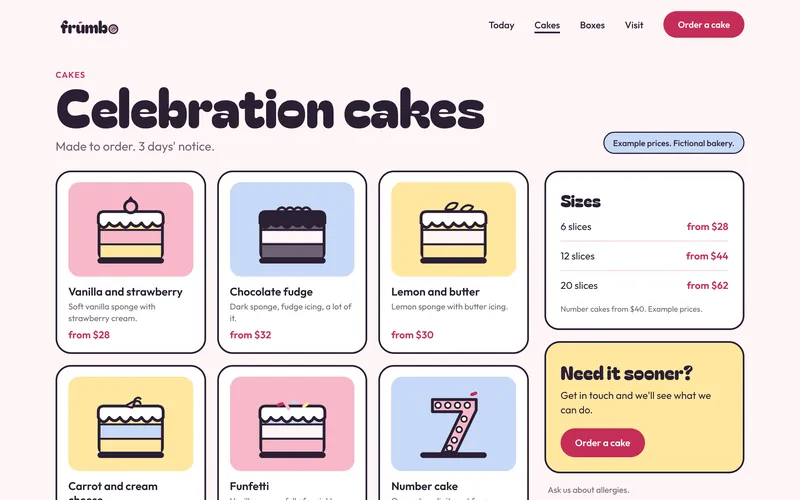
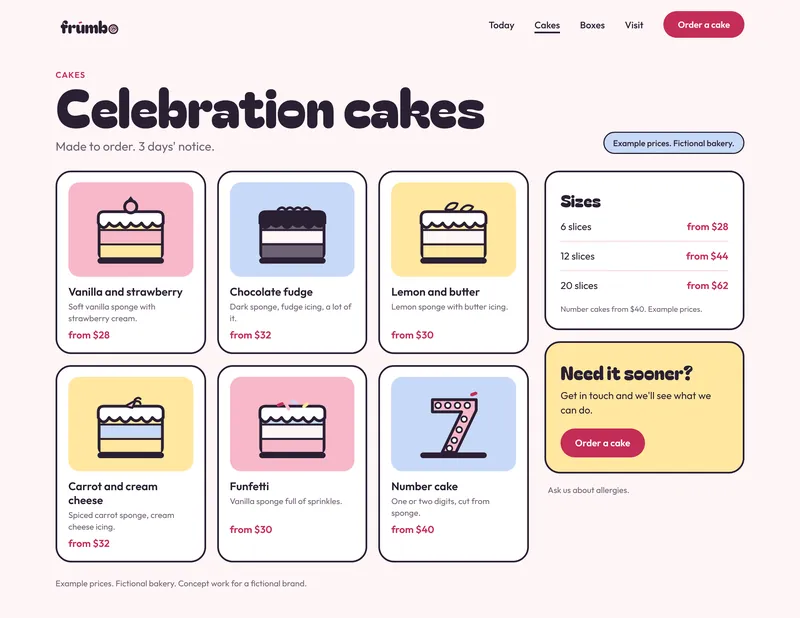
fix(library): Frumbo and Ilvane review fixes
- Frumbo: dark wordmark on pink (logo board alternate 2, box lid, awning);
  the cake box wordmark now sits inside the front face; no stray thumb on the
  phone mock-up; the A-board reads "Out of the oven at" on one line.
- Taller crops for Frumbo's Cakes page (1600x1236) and Ilvane's Quay Room page
  (1600x1400), so both cake rows, the small views and the notes show.
- Ilvane door hanger: the second hanger is no longer cropped, and the text
  matches the sand and linen sides.
- Wording: beige, not sand, for the line and the monogram; alt text updated.

Claude-Session: https://claude.ai/code/session_01WkeDyf4QASFNckaGJ3eusk

diff --git a/src/content/library.js b/src/content/library.js
@@ -142,7 +142,7 @@ export const library = [
         "frumbo",
         "desktop-cakes",
         1600,
-        1000,
+        1236,
         "Frumbo's Celebration cakes page on a desktop: made to order with 3 days' notice, six drawn cakes from vanilla and strawberry at $28 to a number cake from $40, a sizes card with 6, 12 and 20 slices, and a butter-yellow card: Need it sooner? Get in touch. Example prices. Fictional bakery.",
       ),
     ],
@@ -152,7 +152,7 @@ export const library = [
         "logo-board",
         1600,
         1200,
-        "The Frumbo logo board: \"frumbo\" in round dark letters with the o drawn as a pink bun with an icing swirl and a sprinkle over the u; the bun alone on a butter-yellow rounded square; the wordmark in icing white on strawberry pink; the app icon at three sizes; the seven colours and the two typefaces.",
+        "The Frumbo logo board: \"frumbo\" in round dark letters with the o drawn as a pink bun with an icing swirl and a sprinkle over the u; the bun alone on a butter-yellow rounded square; the wordmark in dark ink on strawberry pink; the app icon at three sizes; the seven colours and the two typefaces.",
         "The logo, its two alternates, the app icon, palette and type.",
       ),
       pic(
@@ -160,7 +160,7 @@ export const library = [
         "packaging",
         1600,
         1200,
-        "An illustration of Frumbo's packaging on a counter: a box of six with a strawberry lid, a window showing six buns and striped sides, sealed with a round bun sticker; a tall butter-yellow cake box with a blue handle, frumbo across two sides and a Flavour, Size, For label; and a small paper bun bag reading Still warm? Eat it now.",
+        "An illustration of Frumbo's packaging on a counter: a box of six with a strawberry lid printed with the dark wordmark, a window showing six buns and striped sides, sealed with a round bun sticker; a tall butter-yellow cake box with a blue handle, the frumbo wordmark on the front, the bun mark on the side and a Flavour, Size, For label; and a small paper bun bag reading Still warm? Eat it now.",
         "Box of six, cake box and bun bag. An illustration, drawn in code.",
       ),
       pic(
@@ -184,7 +184,7 @@ export const library = [
         "mockup-shop",
         1600,
         1200,
-        "An illustration of the Frumbo shop front: a strawberry and white striped awning with the wordmark, a window of buns, cakes and boxes, a blue door at 3 Quillow Lane, and a dark A-board reading Out of the oven at 11:00.",
+        "An illustration of the Frumbo shop front: a strawberry and white striped awning with the dark wordmark, a window of buns, cakes and boxes, a blue door at 3 Quillow Lane, and a dark A-board reading Out of the oven at 11:00.",
         "The shop front. An illustration, drawn in code.",
       ),
     ],
@@ -204,7 +204,7 @@ export const library = [
     summary: "A website and booking app for an 18-room hotel on a quay, with its logo, a key card, a door hanger and a 3D room.",
     choices: [
       "Linen and sand with blue-black ink, and a lot of white space: quiet, with facts instead of adjectives.",
-      "The logo is ILVANE in light, widely spaced capitals, with one thin sand-coloured line under the V, like the waterline on a quay wall.",
+      "The logo is ILVANE in light, widely spaced capitals, with a thin beige line under the V, like the waterline on a quay wall.",
       "No bright accent at all: buttons are ink with linen text, and the 3D room shows the stay before anyone books.",
     ],
     mobile: [
@@ -238,7 +238,7 @@ export const library = [
         "ilvane",
         "desktop-room",
         1600,
-        1000,
+        1400,
         "Ilvane's Quay Room page on a desktop: a large 3D illustration of the room with two smaller views (the window and reading chair, and the room in late afternoon), its facts, what's included (breakfast, Wi-Fi, bicycles) and a sand price box from $240 a night with a Book this room button. Example prices and policy.",
       ),
     ],
@@ -248,7 +248,7 @@ export const library = [
         "logo-board",
         1600,
         1200,
-        "The Ilvane logo board: ILVANE in light, widely spaced serif capitals with a thin sand line under the V and HOTEL beneath; a serif I with the line across its foot in a thin square; the wordmark in linen on ink; the app icon at three sizes; the five colours and the two typefaces.",
+        "The Ilvane logo board: ILVANE in light, widely spaced serif capitals with a thin beige line under the V and HOTEL beneath; a serif I with the line across its foot in a thin square; the wordmark in linen on ink; the app icon at three sizes; the five colours and the two typefaces.",
         "The logo, its two alternates, the app icon, palette and type.",
       ),
       pic(
@@ -272,7 +272,7 @@ export const library = [
         "mockup-key",
         1600,
         1200,
-        "An illustration of an ink-coloured key card with the Ilvane I monogram in sand, resting on a linen envelope with Room 4 written on it and the Ilvane wordmark, on a light wood desk with a pen.",
+        "An illustration of an ink-coloured key card with the Ilvane I monogram in beige, resting on a linen envelope with Room 4 written on it and the Ilvane wordmark, on a light wood desk with a pen.",
         "Key card and envelope. An illustration, drawn in code.",
       ),
       pic(
@@ -280,7 +280,7 @@ export const library = [
         "mockup-hanger",
         1600,
         1200,
-        "An illustration of two Ilvane door hangers: a sand one reading Quiet, please hanging on the lever of a dark door, and the other side, reading Ready for the room.",
+        "An illustration of two Ilvane door hangers: a sand one reading Quiet, please hanging on the lever of a dark door, and the other side, in linen, reading Ready for the room.",
         "The door hanger, both sides. An illustration, drawn in code.",
       ),
       pic(
